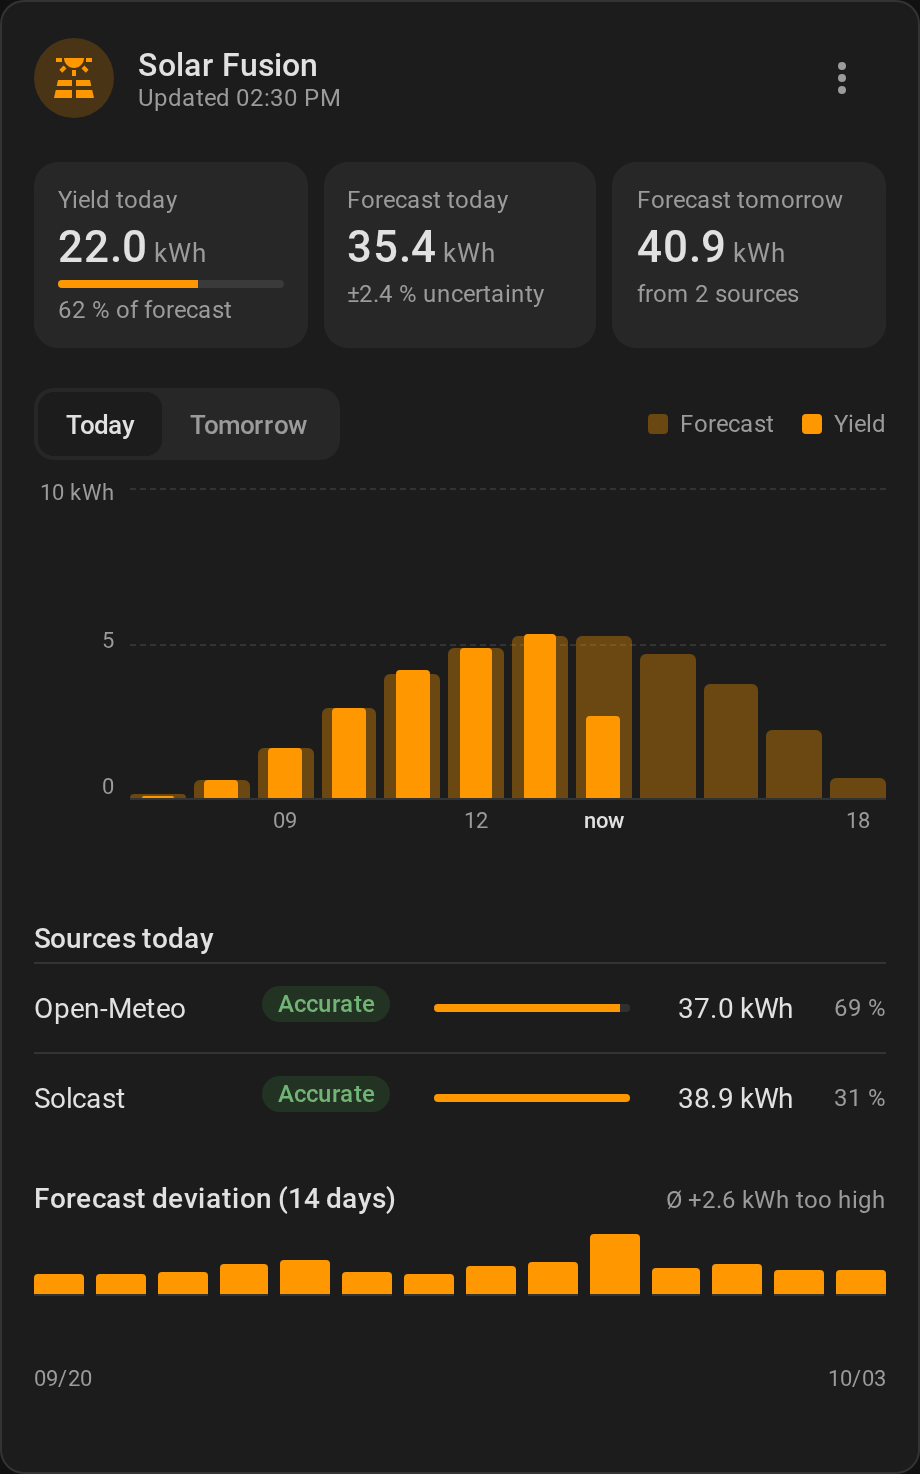
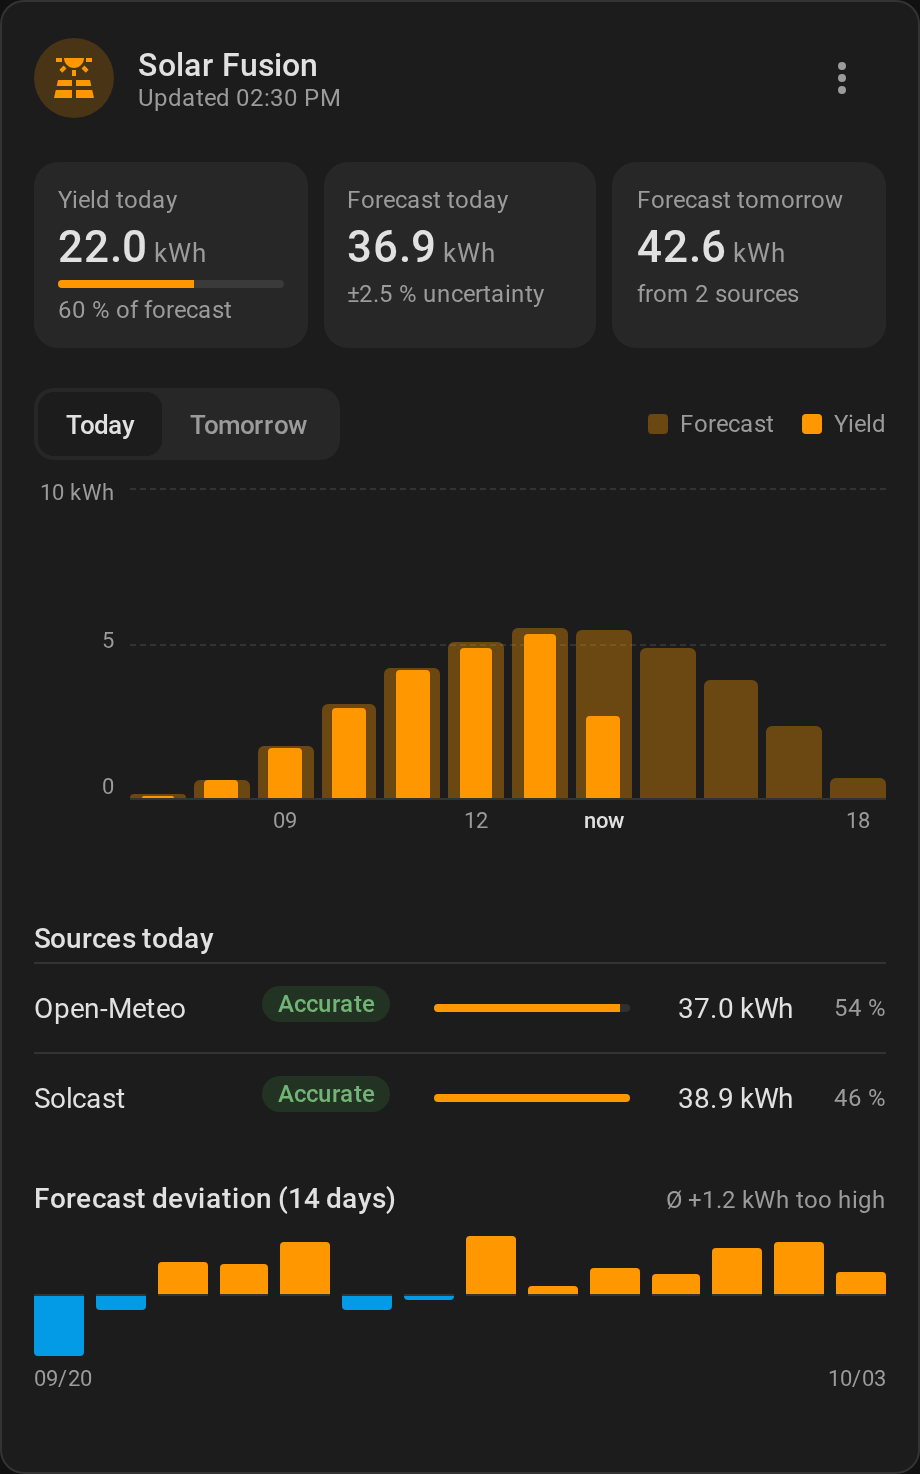
Show deviations in both directions in the card screenshot
The synthetic forecast ignores the horizon, so it was above the actual
on every day and the deviation chart showed only "too high". The
screenshot's history now spreads each day's forecast by a fixed factor
between 0.85 and 1.03, like weather errors: four days are too low, the
average is +1.2 kWh. Other tests do not use this history.

diff --git a/tests_ha/test_card_screenshot.py b/tests_ha/test_card_screenshot.py
@@ -11,6 +11,7 @@ Nach einer gewollten Änderung der Karte das Bild neu schreiben:
 """
 import json
 import os
+import random
 from datetime import date, timedelta
 
 import pytest
@@ -43,12 +44,18 @@ _CONTENT_TYPES = {".html": "text/html", ".js": "text/javascript",
 
 
 def _history() -> list[dict]:
-    """14 Tage Prognose (wie set_sources: Solcast 5 % höher) und Ist der synthetischen Anlage."""
+    """14 Tage Prognose (wie set_sources: Solcast 5 % höher) und Ist der synthetischen Anlage.
+
+    Die synthetische Prognose kennt den Horizont nicht und liegt deshalb jeden
+    Tag rund 5 % über dem Ist. Eine feste Streuung je Tag (wie Wetterfehler),
+    im Mittel etwas darunter, bringt Abweichungen in beide Richtungen in die Grafik.
+    """
     records = []
     for offset in range(HISTORY_DAYS, 0, -1):
         day = (date.fromisoformat(TODAY) - timedelta(days=offset)).isoformat()
         fc, ac = synthetic_day(day)
-        forecast, actual = sum(fc.values()) / 1000, round(sum(ac.values()) / 1000, 3)
+        spread = random.Random(f"{day}-weather").uniform(0.85, 1.03)
+        forecast, actual = sum(fc.values()) * spread / 1000, round(sum(ac.values()) / 1000, 3)
         for source, factor in (("open_meteo_solar_forecast", 1.0), ("solcast", 1.05)):
             records.append({"date": day, "source": source,
                             "forecast_kwh": round(forecast * factor, 3), "actual_kwh": actual})
